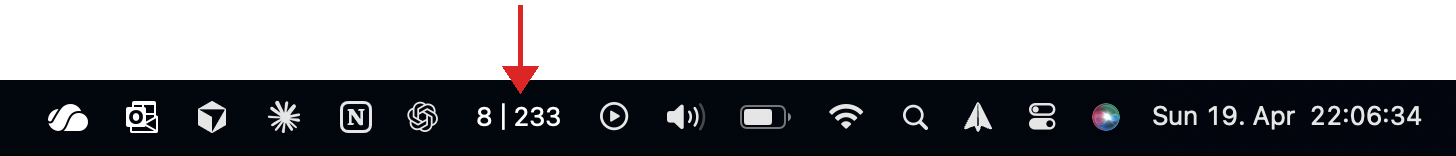
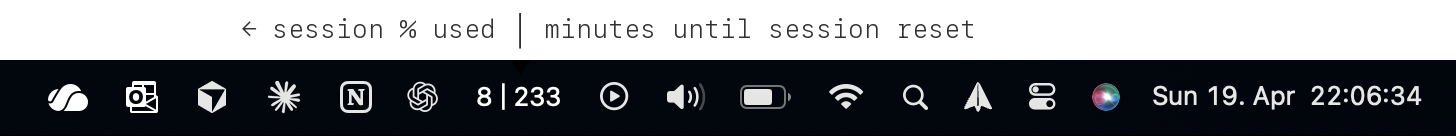
Bake explainer text into screenshot with aligned bar

diff --git a/README.md b/README.md
@@ -2,10 +2,6 @@
 
 A [SwiftBar](https://swiftbar.app) plugin that shows your Claude.ai usage in your macOS menu bar.
 
-```
-8 │ 233      ← session % used │ minutes until session reset
-```
-
 ![Claude Usage Display in the menu bar](screenshot.png)
 
 Click to see the full breakdown and open your usage page:
